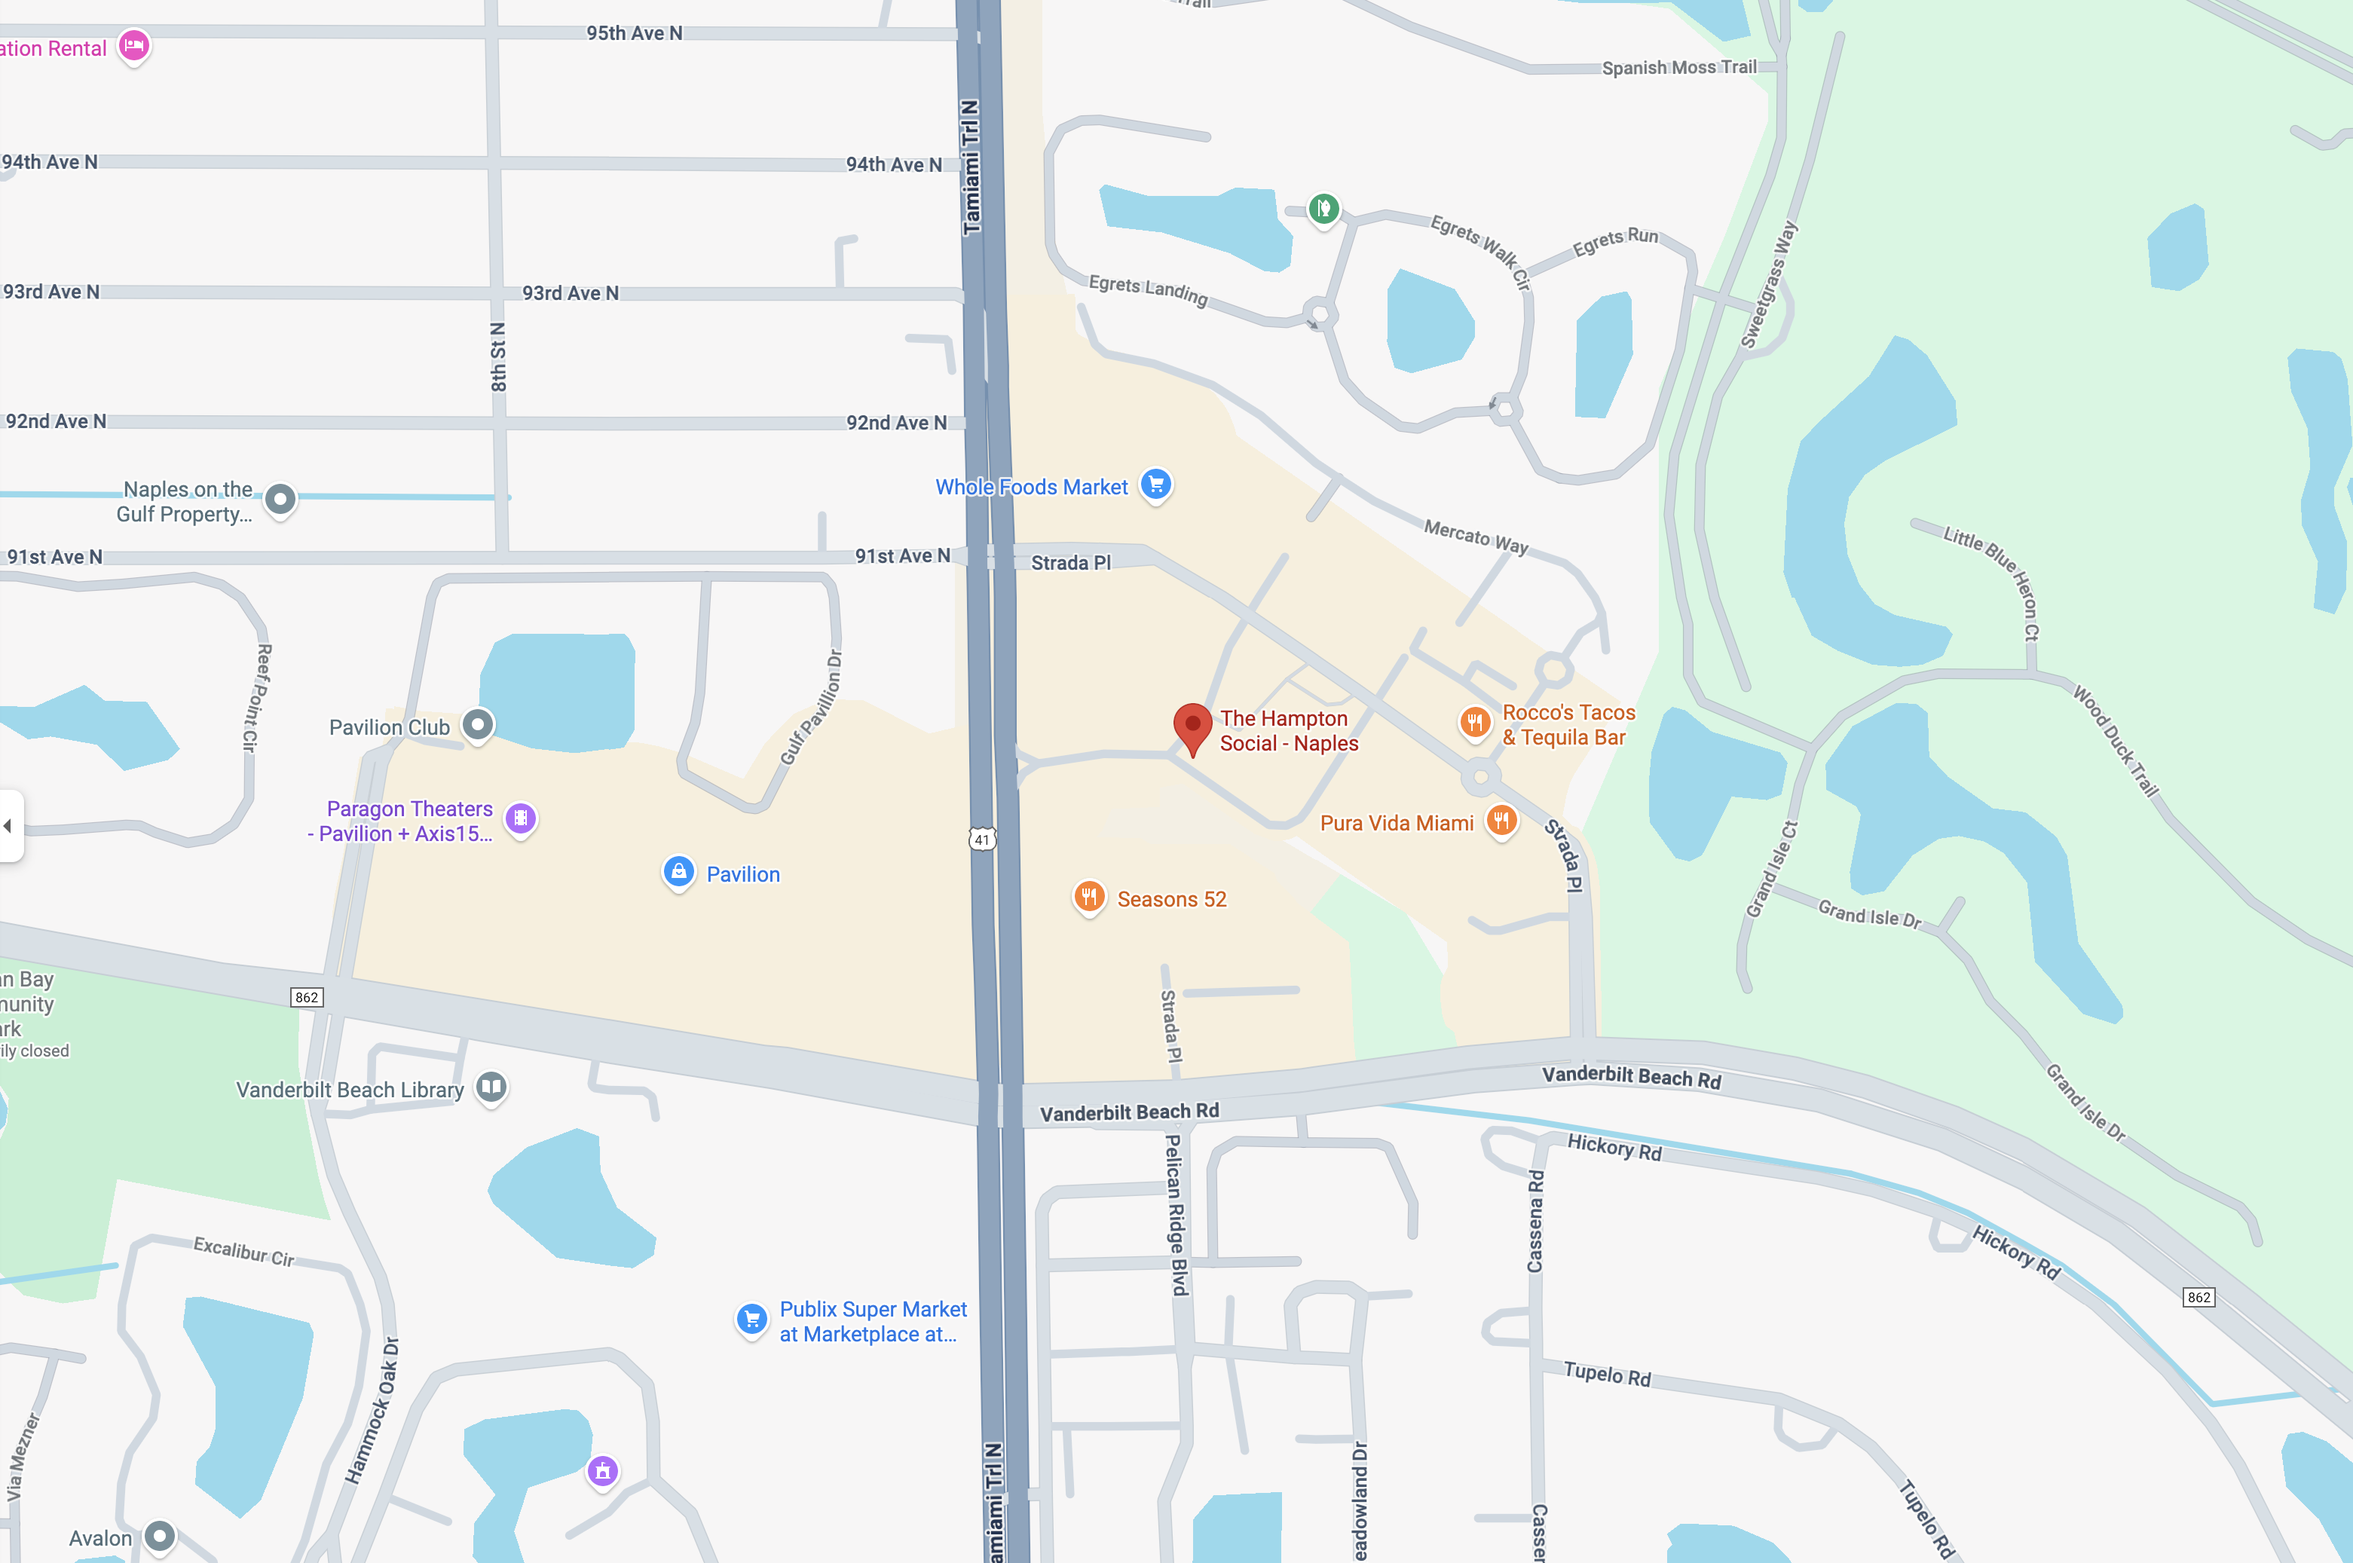
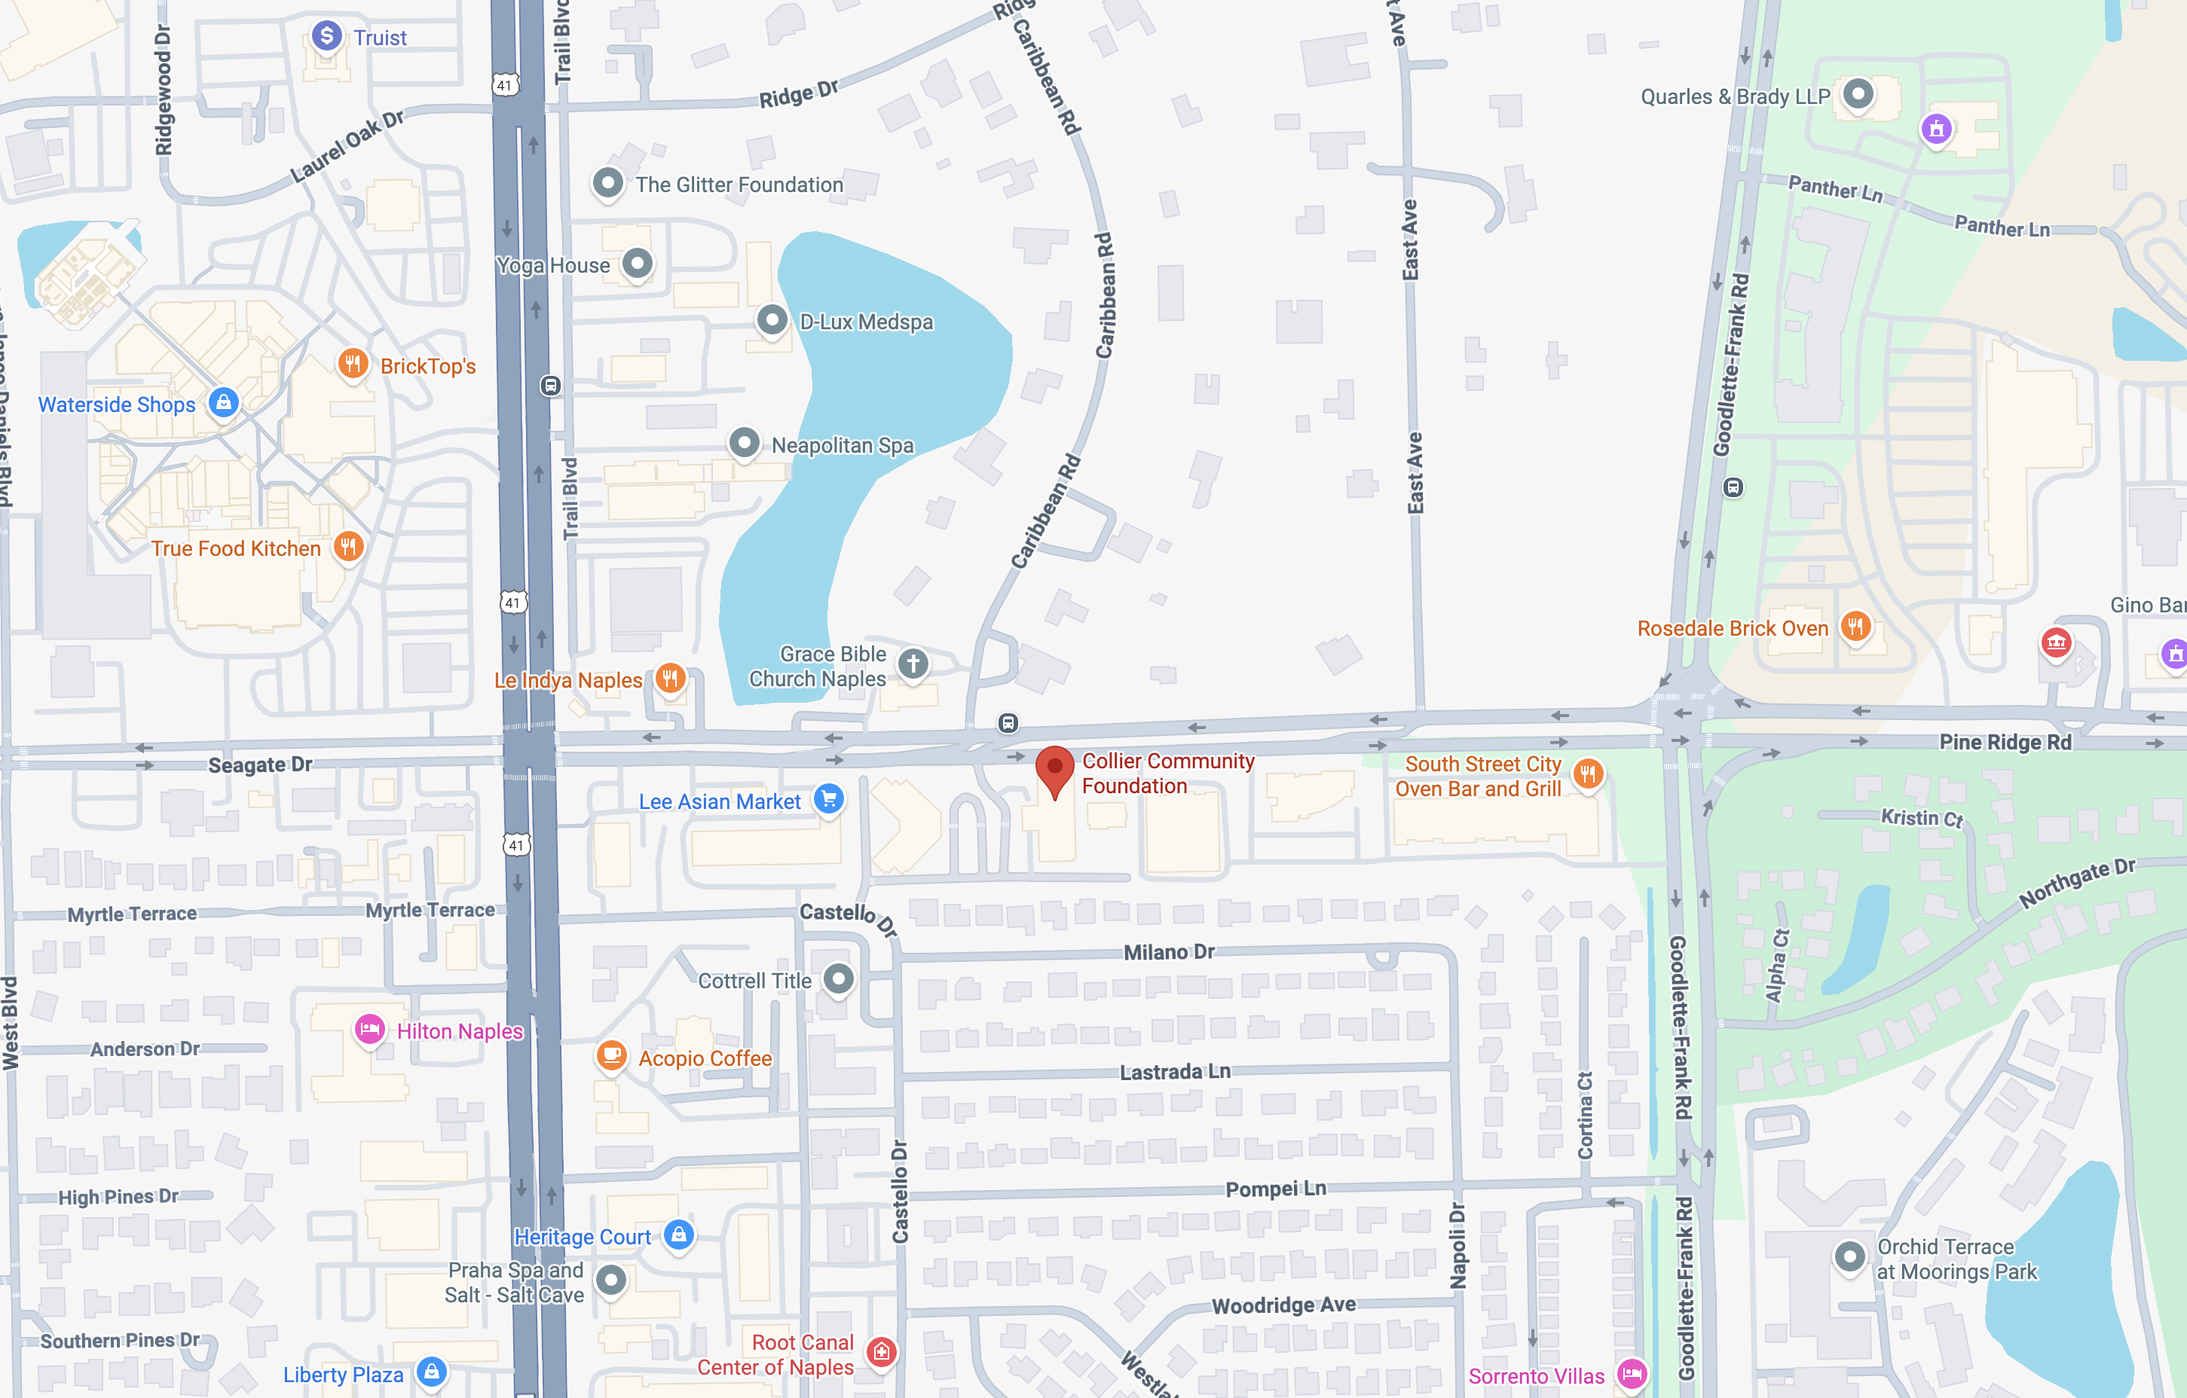
changed the wording of the Zonta100Years section and changed the Google maps section to the collier community foundation

diff --git a/frontend/src/components/GoogleMaps.jsx b/frontend/src/components/GoogleMaps.jsx
@@ -25,7 +25,7 @@ export default function Mission() {
             transition={{ duration: 0.8, delay: 0.15 }}
             viewport={{ once: true }}
           >
-            We meet the first Tuesday of every month. Networking and fellowship starts at 11:30, followed by the general meeting at noon!
+            We meet the first Tuesday of every month at the Collier Community Foundation or via Zoom call.
           </motion.p>
 
           <motion.h3
@@ -35,8 +35,8 @@ export default function Mission() {
             transition={{ duration: 0.8 }}
             viewport={{ once: true }}
           >
-            The Hampton Social <br />
-            9114 Strada Pl, Naples, FL 34108
+            The Collier Community Foundation <br />
+            1110 Pine Ridge Rd Ste 200, Naples, FL 34108
           </motion.h3>
         </div>
 
@@ -49,7 +49,7 @@ export default function Mission() {
           viewport={{ once: true }}
         >
           <a
-            href="https://www.google.com/maps/place/The+Hampton+Social+-+Naples/@26.2525365,-81.7988287,17z/data=!4m15!1m8!3m7!1s0x88db1e94e3fa45cb:0x818327db950fc670!2s9114+Strada+Pl,+Naples,+FL+34108!3b1!8m2!3d26.2525365!4d-81.7988287!16s%2Fg%2F11pvcvnj2c!3m5!1s0x88db1fdd60808ff1:0x31a88711e9c35fd3!8m2!3d26.2529083!4d-81.7996599!16s%2Fg%2F11fj3038j8?entry=ttu&g_ep=EgoyMDI1MTAyNy4wIKXMDSoASAFQAw%3D%3D"
+            href="https://www.google.com/maps/place/Collier+Community+Foundation/@26.2111588,-81.7987518,17.21z/data=!3m1!5s0x88db1e6b9b284415:0x9eb3f1c0fb63443a!4m6!3m5!1s0x88dae1e7a398639b:0x45596724d5304443!8m2!3d26.2109188!4d-81.7966863!16s%2Fg%2F1td48skv?entry=ttu&g_ep=EgoyMDI1MTEwMi4wIKXMDSoASAFQAw%3D%3D"
             target="_blank"
             rel="noopener noreferrer"
           >

diff --git a/frontend/src/components/Zonta100years.jsx b/frontend/src/components/Zonta100years.jsx
@@ -32,7 +32,7 @@ export default function Zonta100Years() {
         transition={{ duration: 0.8, delay: 0.2 }}
         viewport={{ once: true }}
       >
-        Celebrating 100 Years
+        Celebrating Over 100 Years
       </motion.h3>
 
       <motion.p
@@ -42,7 +42,7 @@ export default function Zonta100Years() {
         transition={{ duration: 0.8, delay: 0.4 }}
         viewport={{ once: true }}
       >
-        For a century, Zonta International has worked to advance the status of
+        For over a century, Zonta International has worked to advance the status of
         women through service and advocacy. The Zonta Club of Naples proudly
         continues this legacy, striving for equality, education, and
         empowerment worldwide.

diff --git a/frontend/src/pages/Contact.jsx b/frontend/src/pages/Contact.jsx
@@ -7,7 +7,7 @@ export default function Contact() {
       <div className="relative z-10 w-full max-w-2xl">
         <h1 className="text-4xl font-bold mb-4 text-white">Contact Zonta Club of Naples</h1>
         <p className="text-lg mb-12 text-white/90">
-          Have questions or want to get involved? We'd love to hear from you. <br />You can also reach us at info@zonta-naples.org
+          Have questions or want to get involved? We'd love to hear from you. 
         </p>
 
         <form className="w-full bg-white shadow-lg rounded-2xl p-8 space-y-6 text-left">

diff --git a/frontend/src/pages/ZontaCentennial.jsx b/frontend/src/pages/ZontaCentennial.jsx
@@ -36,7 +36,7 @@ export default function ZontaCentennial() {
           />
 
           <motion.h1 className="text-4xl sm:text-5xl font-bold text-white/95" {...fadeUp(0)}>
-            Zonta — 100 Years of Service & Advocacy
+            Zonta — Over 100 Years of Service & Advocacy
           </motion.h1>
           <motion.p className="mt-4 text-white/90 max-w-3xl mx-auto" {...fadeUp(0.1)}>
             For more than a century, Zonta clubs around the world have united professionals and community
